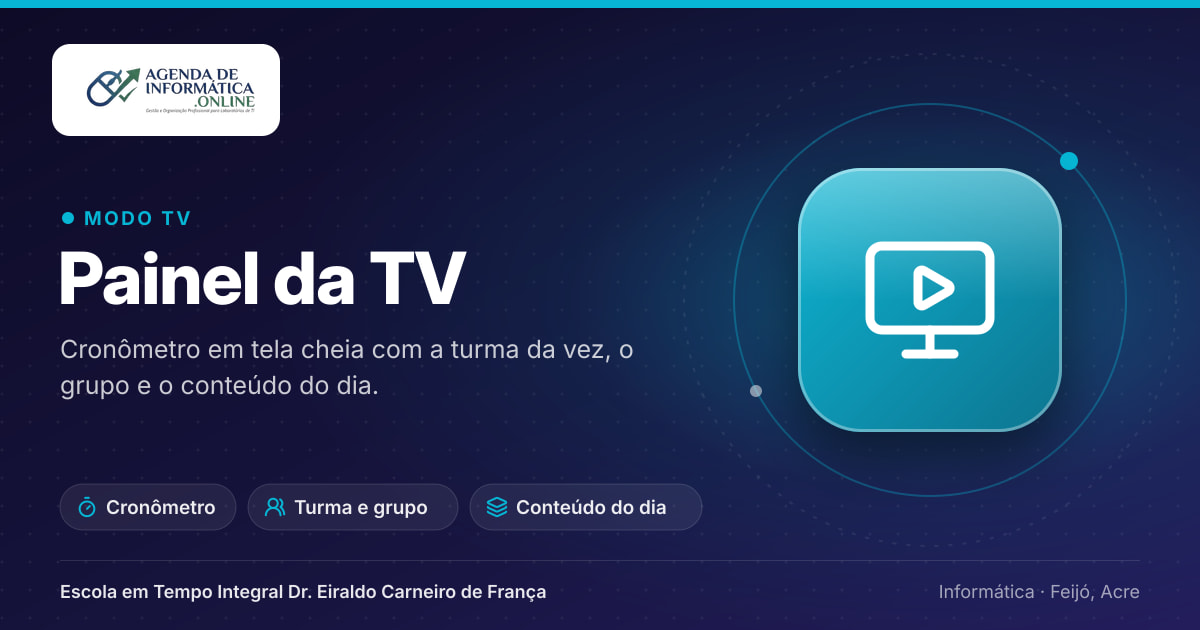
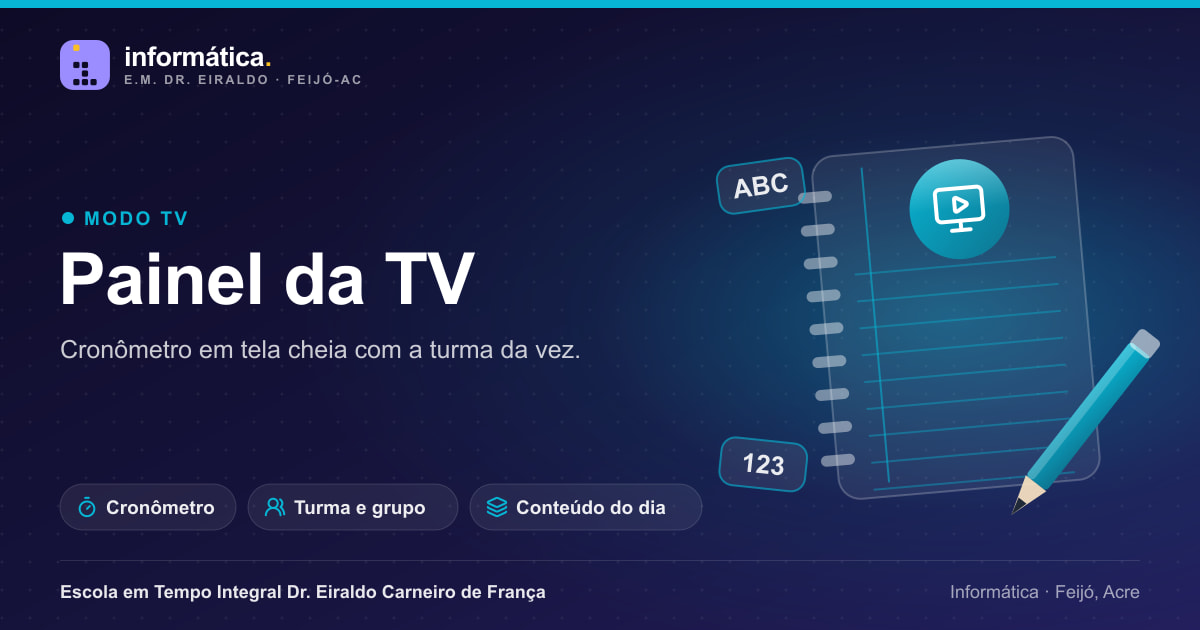
Compartilhamento: artes novas (marca discreta e caderno pedagógico) e textos curtos com emojis

diff --git a/src/routes/infoteca.tsx b/src/routes/infoteca.tsx
@@ -37,16 +37,16 @@ export const Route = createFileRoute("/infoteca")({
   head: () => ({
     meta: [
       ...imagemCompartilhar("/og/secao-infoteca.jpg", "Infoteca: jogos e ferramentas educativas"),
-      { title: "Infoteca · Informática Dr. Eiraldo" },
+      { title: "📚 Infoteca · Informática Dr. Eiraldo" },
       {
         name: "description",
         content:
           "A Infoteca reúne jogos, ferramentas e plataformas educativas escolhidos a dedo para alunos, professores e famílias, com opções para crianças com necessidades especiais.",
       },
-      { property: "og:title", content: "Infoteca · Informática Dr. Eiraldo" },
+      { property: "og:title", content: "📚 Infoteca · Informática Dr. Eiraldo" },
       {
         property: "og:description",
-        content: "Jogos e ferramentas educativas escolhidos a dedo, separados por assunto.",
+        content: "🎮 Jogos e 🧰 ferramentas educativas, separados por assunto.",
       },
       { property: "og:type", content: "website" },
     ],

diff --git a/src/routes/sobre.tsx b/src/routes/sobre.tsx
@@ -35,13 +35,13 @@ export const Route = createFileRoute("/sobre")({
   head: () => ({
     meta: [
       ...imagemCompartilhar("/og/secao-sobre.jpg", "Sobre o laboratório de informática"),
-      { title: "A gente e o laboratório · Informática Dr. Eiraldo" },
+      { title: "🏫 A gente e o laboratório · Informática Dr. Eiraldo" },
       {
         name: "description",
         content:
           "Conheça o laboratório de informática da Escola Dr. Eiraldo Carneiro de França: como funciona, quem está por trás e por que tudo isso existe.",
       },
-      { property: "og:title", content: "A gente e o laboratório · Informática Dr. Eiraldo" },
+      { property: "og:title", content: "🏫 A gente e o laboratório · Informática Dr. Eiraldo" },
       {
         property: "og:description",
         content:

diff --git a/src/routes/resultados.tsx b/src/routes/resultados.tsx
@@ -8,9 +8,9 @@ export const Route = createFileRoute("/resultados")({
   component: ResultadosPublicos,
   head: () => ({
     meta: metaCompartilhar({
-      titulo: "Resultados do 3º bimestre · Escola Dr. Eiraldo",
+      titulo: "📊 Resultados do 3º bimestre · Escola Dr. Eiraldo",
       descricao:
-        "Como as turmas da Escola Dr. Eiraldo estão lendo, escrevendo e aprendendo no 3º bimestre de 2026, comparado com o 1º e o 2º bimestre e com as duas avaliações diagnósticas.",
+        "📖 Leitura e escrita, ✏ notas e 🎯 o que cada turma precisa. Por turma, sem identificar alunos.",
       imagem: "/og/secao-resultados.jpg",
       alt: "Resultados do 3º bimestre de 2026",
     }),

diff --git a/src/routes/entre-turnos.tsx b/src/routes/entre-turnos.tsx
@@ -9,9 +9,9 @@ export const Route = createFileRoute("/entre-turnos")({
   component: EntreTurnosPage,
   head: () => ({
     meta: metaCompartilhar({
-      titulo: "Entre Turnos · intervalo das 11h às 13h · Escola Dr. Eiraldo",
+      titulo: "🍽 Entre Turnos · 11h às 13h",
       descricao:
-        "Onde cada turma descansa, assiste a um filme ou brinca no intervalo do almoço, e quais monitores cuidam dela em cada dia da semana.",
+        "🛏 Sala de aula · 🎬 Sala de filme · 🎲 Sala de jogos. Veja onde cada turma fica e quem cuida dela.",
       imagem: "/og/secao-entre-turnos.jpg",
       alt: "Entre Turnos, das 11h às 13h: sala de aula, sala de filme e sala de jogos",
     }),

diff --git a/src/routes/sala-de-jogos.tsx b/src/routes/sala-de-jogos.tsx
@@ -17,9 +17,9 @@ export const Route = createFileRoute("/sala-de-jogos")({
   component: SalaDeJogosApp,
   head: () => ({
     meta: metaCompartilhar({
-      titulo: "Sala de Jogos · Informática Dr. Eiraldo",
+      titulo: "🎮 Sala de Jogos · Informática Dr. Eiraldo",
       descricao:
-        "Damas, dominó, jogo da velha, memória, quebra-cabeça, digitação e mais. Instale no celular ou no computador e jogue sem internet.",
+        "♟ Damas, dominó, memória e quebra-cabeça. 📱 Instale no celular e jogue sem internet.",
       imagem: "/og/secao-sala-de-jogos.jpg",
       alt: "Sala de Jogos: instale no celular e jogue sem internet",
     }),

diff --git a/src/routes/avaliacao.tsx b/src/routes/avaliacao.tsx
@@ -46,9 +46,8 @@ export const Route = createFileRoute("/avaliacao")({
   component: AvaliacaoPublica,
   head: () => ({
     meta: metaCompartilhar({
-      titulo: "Avaliações Diagnósticas · Escola Dr. Eiraldo",
-      descricao:
-        "I e II Avaliação Diagnóstica 2026 da Escola Dr. Eiraldo Carneiro de França: quanto cada turma avançou, o que já foi aprendido e o que precisa ser retomado.",
+      titulo: "📝 Avaliações Diagnósticas · Escola Dr. Eiraldo",
+      descricao: "📈 I e II Avaliação 2026: quanto cada turma avançou e o que retomar.",
       imagem: "/og/secao-avaliacao.jpg",
       alt: "Avaliações Diagnósticas 2026",
     }),

diff --git a/src/routes/agenda.tsx b/src/routes/agenda.tsx
@@ -11,9 +11,8 @@ export const Route = createFileRoute("/agenda")({
   component: AgendaPage,
   head: () => ({
     meta: metaCompartilhar({
-      titulo: "O laboratório ao vivo · Informática Dr. Eiraldo",
-      descricao:
-        "Veja quem está no laboratório de informática agora, quem já foi nos outros dias da semana e o placar das turmas.",
+      titulo: "💻 Laboratório de informática · agenda da semana",
+      descricao: "🟢 Quem está no laboratório agora e ⏭ o que vem a seguir, dia por dia.",
       imagem: "/og/secao-agenda.jpg",
       alt: "Laboratório de Informática ao vivo",
     }),

diff --git a/src/components/school/pausa/entre-turnos.tsx b/src/components/school/pausa/entre-turnos.tsx
@@ -80,7 +80,7 @@ const VISUAL: Record<
 const ORDEM: Espaco[] = ["aula", "filme", "jogos"];
 const CAMINHO = "/entre-turnos";
 const TEXTO_COMPARTILHAR =
-  "Entre Turnos: onde cada turma da Escola Dr. Eiraldo fica no intervalo das 11h às 13h e quem cuida dela.";
+  "🍽 Entre Turnos · 11h às 13h\n🛏 Sala de aula · 🎬 Filme · 🎲 Jogos\n👩🏫 Veja onde cada turma fica e quem cuida dela:";
 
 /** Etiqueta curta de um espaço: ícone + nome. */
 function Etiqueta({ espaco, curta = false }: { espaco: Espaco; curta?: boolean }) {

diff --git a/src/lib/compartilhar.ts b/src/lib/compartilhar.ts
@@ -12,7 +12,7 @@
  * que rodar o script e a arte mudar.
  */
 
-export const VERSAO_ARTE = 4;
+export const VERSAO_ARTE = 5;
 
 type Meta = Record<string, string>;
 
